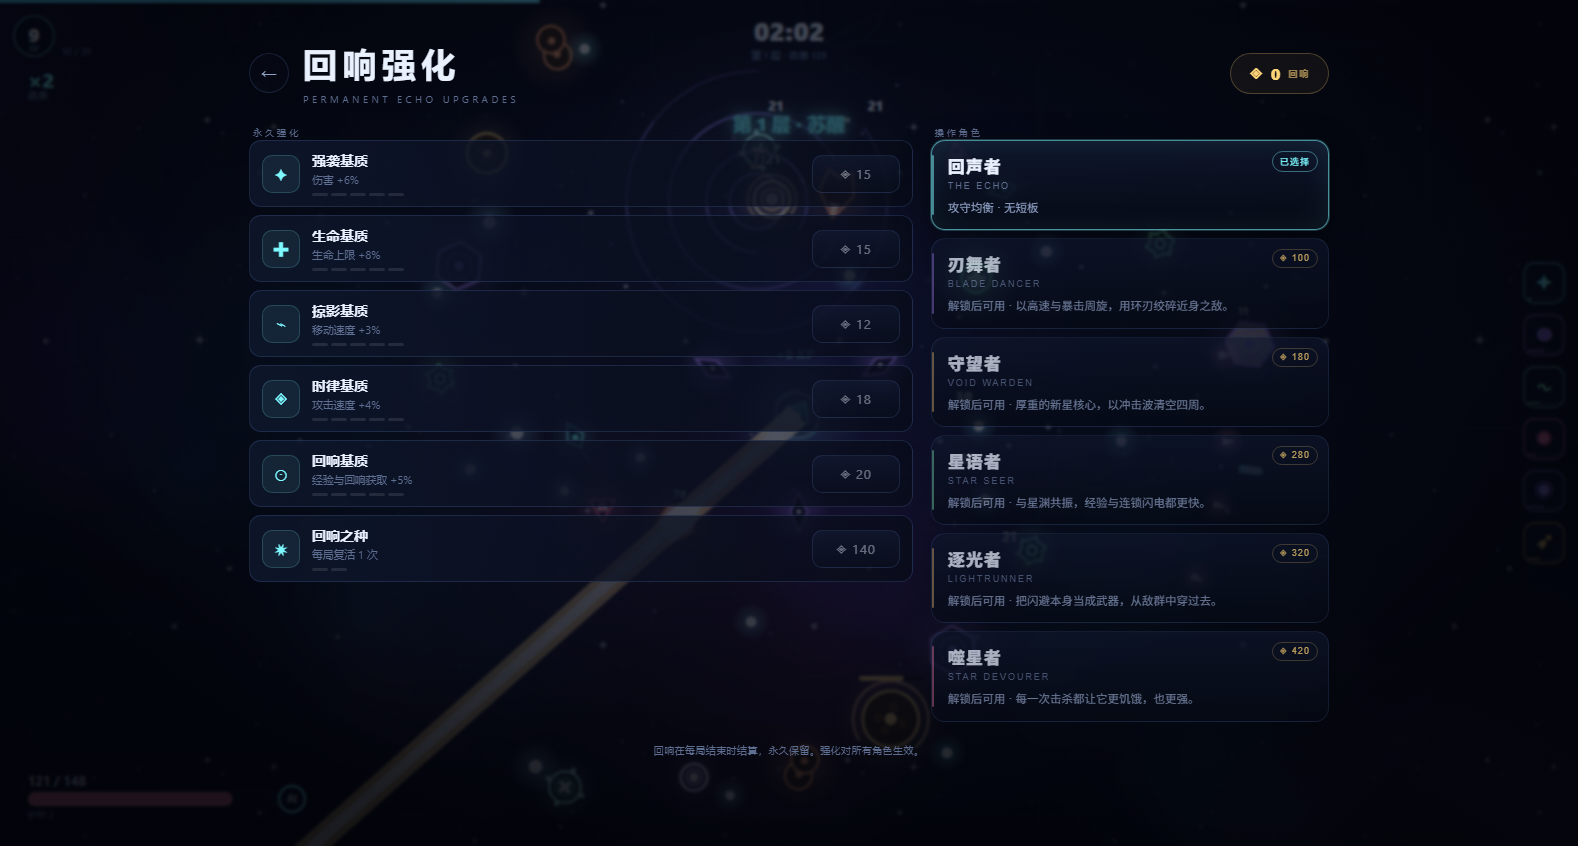
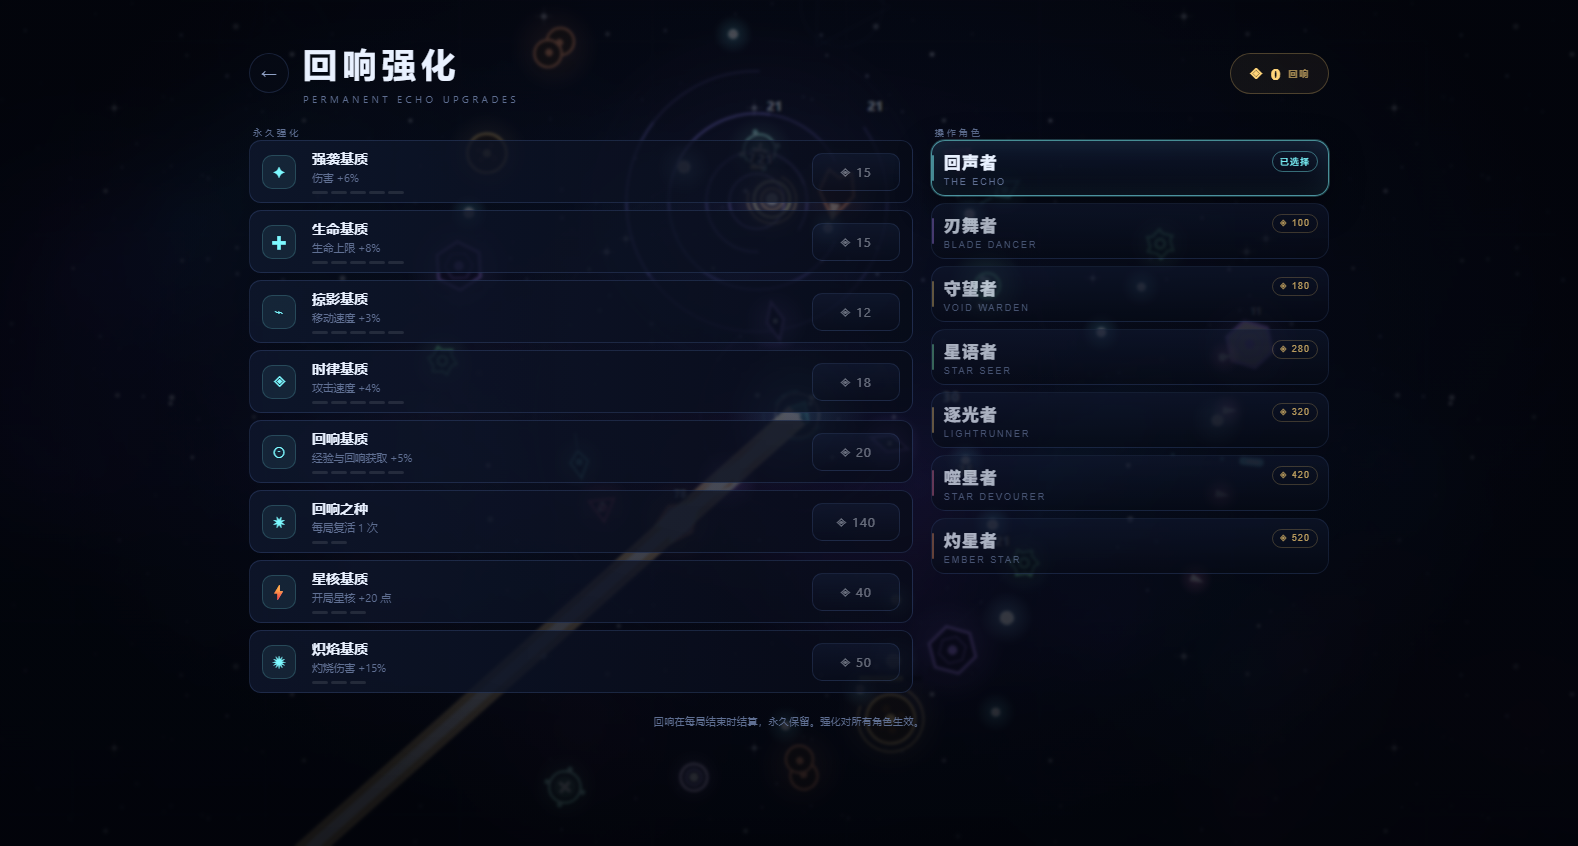
项目: 《星渊回响》v1.21.0 —— 星核/炽焰基质

diff --git a/projects/aether-echo/css/style.css b/projects/aether-echo/css/style.css
@@ -475,15 +475,15 @@ html, body {
 }
 .wallet small { font-size: 9px; letter-spacing: 0.2em; color: rgba(255, 212, 121, 0.6); font-weight: 600; }
 .meta-cols { display: grid; grid-template-columns: 1.25fr 0.75fr; gap: 18px; width: 100%; align-items: start; }
-.meta-list { display: flex; flex-direction: column; gap: 8px; }
+.meta-list { display: flex; flex-direction: column; gap: 7px; }
 .meta-row {
   display: grid; grid-template-columns: 38px 1fr auto; gap: 12px; align-items: center;
   background: linear-gradient(90deg, rgba(16, 24, 46, 0.8), rgba(8, 12, 24, 0.7));
-  border: 1px solid var(--line); border-radius: 12px; padding: 10px 12px;
+  border: 1px solid var(--line); border-radius: 12px; padding: 8px 12px;
 }
 .meta-row .m-icon {
-  width: 38px; height: 38px; border-radius: 10px; display: flex; align-items: center; justify-content: center;
-  background: rgba(125, 249, 255, 0.07); border: 1px solid rgba(125, 249, 255, 0.18); color: var(--cyan); font-size: 17px;
+  width: 34px; height: 34px; border-radius: 10px; display: flex; align-items: center; justify-content: center;
+  background: rgba(125, 249, 255, 0.07); border: 1px solid rgba(125, 249, 255, 0.18); color: var(--cyan); font-size: 16px;
 }
 .meta-row .m-name { font-size: 13.5px; font-weight: 700; letter-spacing: 0.04em; }
 .meta-row .m-desc { font-size: 10.5px; color: var(--dim2); margin-top: 3px; letter-spacing: 0.02em; }
@@ -491,8 +491,9 @@ html, body {
 .meta-pips i { width: 16px; height: 3px; border-radius: 2px; background: rgba(255, 255, 255, 0.1); }
 .meta-pips i.on { background: var(--cyan); box-shadow: 0 0 7px rgba(125, 249, 255, 0.5); }
 .meta-row .m-buy { min-width: 88px; }
-.char-list { display: flex; flex-direction: column; gap: 8px; }
-.char-list .char-card { min-height: 0; }
+.char-list { display: flex; flex-direction: column; gap: 7px; }
+.char-list .char-card { min-height: 0; padding: 8px 10px 8px 12px; }
+.char-list .char-perk { display: none; }
 .section-label {
   font-size: 9px; letter-spacing: 0.34em; color: var(--dim2);
   margin: 0 0 2px 4px;

diff --git a/projects/aether-echo/js/data.js b/projects/aether-echo/js/data.js
@@ -9,7 +9,7 @@
   const D = (g.DATA = g.DATA || {});
   AE.Data = D;
 
-  D.VERSION = '1.20.0';
+  D.VERSION = '1.21.0';
   D.TITLE = '星渊回响';
   D.SUBTITLE = 'AETHER ECHO';
 
@@ -502,7 +502,9 @@
     { id: 'swift', name: '掠影基质', icon: '⌁', max: 5, cost: function (l) { return 12 + l * 12; }, per: 0.03, stat: 'spd', desc: function (l) { return '移动速度 +' + (l * 3) + '%'; } },
     { id: 'haste', name: '时律基质', icon: '◈', max: 5, cost: function (l) { return 18 + l * 18; }, per: 0.04, stat: 'atk', desc: function (l) { return '攻击速度 +' + (l * 4) + '%'; } },
     { id: 'fortune', name: '回响基质', icon: '⊙', max: 5, cost: function (l) { return 20 + l * 20; }, per: 0.05, stat: 'xp', desc: function (l) { return '经验与回响获取 +' + (l * 5) + '%'; } },
-    { id: 'revive', name: '回响之种', icon: '✷', max: 2, cost: function (l) { return 140 + l * 160; }, per: 1, stat: 'revive', desc: function (l) { return '每局复活 ' + l + ' 次'; } }
+    { id: 'revive', name: '回响之种', icon: '✷', max: 2, cost: function (l) { return 140 + l * 160; }, per: 1, stat: 'revive', desc: function (l) { return '每局复活 ' + l + ' 次'; } },
+    { id: 'core', name: '星核基质', icon: '⚡', max: 3, cost: function (l) { return 40 + l * 30; }, per: 20, stat: 'ult', desc: function (l) { return '开局星核 +' + (l * 20) + ' 点'; } },
+    { id: 'ignis', name: '炽焰基质', icon: '✹', max: 3, cost: function (l) { return 50 + l * 40; }, per: 0.15, stat: 'burn', desc: function (l) { return '灼烧伤害 +' + (l * 15) + '%'; } }
   ];
 
   /* 首次进入游戏的操作提示 */

diff --git a/projects/aether-echo/js/player.js b/projects/aether-echo/js/player.js
@@ -31,7 +31,7 @@
         dashDamage: !!char.dashDamage,
         killStack: !!char.killStack,
         burn: !!char.burn,
-        ultGain: 0, igniteChance: 0, burnMul: 1,
+        ultGain: 0, igniteChance: 0, burnMul: 1 + (meta.ignis || 0) * 0.15,
         killStacks: 0, stackBonus: 0,
         revives: lv('revive'),
         level: 1, xp: 0, xpNeed: D.xpNeed(1),
@@ -39,7 +39,7 @@
         relics: [],
         aimX: 0, aimY: 0, aimAngle: -Math.PI / 2,
         dashT: 0, dashCd: 0, dashDir: { x: 1, y: 0 },
-        ult: 0, ultMax: 100, ultPulse: 0,
+        ult: Math.min(100, (meta.core || 0) * 20), ultMax: 100, ultPulse: 0,
         invuln: 0, flash: 0, hurtT: 0,
         moving: false, alive: true, t: 0,
         levelHpBonus: 0, damageDealt: 0, healed: 0,

diff --git a/projects/aether-echo/README.md b/projects/aether-echo/README.md
@@ -51,7 +51,7 @@ python -m http.server 8080
 - **星象事件**：每局随机触发陨星雨 / 虚空潮汐 / 星核涌动 / 精英狩猎，同一套构筑在不同局里节奏完全不同。
 - **遗物**：每次击破首领额外三选一遗物，20 件遗物能彻底改变同一套武器的玩法。
 - **七名角色**：逐光者把闪避本身变成穿身伤害，噬星者靠击杀永久叠伤，灼星者让所有命中附带持续燃烧并引燃周围。
-- **局外成长**：每局结束按表现结算「回响」，用于购买永久强化、解锁新角色。
+- **局外成长**：每局结束按表现结算「回响」，用于购买 8 种永久强化（含开局星核、灼烧强化）、解锁新角色。
 - **深渊契约**：开局可自选 1~4 条难度词条（兽潮 / 狂怒 / 疾行 / 精锐），每条敌人更强、结算回响 +20%，单独记录契约最佳。
 - **图鉴 / 档案**：全部武器、被动、敌人、首领、遗物、星象事件可查；26 项成就、生涯统计与本地最佳记录。
 - **每日挑战**：每天一个固定种子，叠加 2 条随机扰动（敌人移速 / 伤害 / 经验 / 护甲等），单独记录今日最佳。
@@ -183,7 +183,7 @@ aether-echo/
 这个项目在没有手动点击的情况下做了两轮自动化验证：
 
 1. **Node 无头模拟器**（`tools/sim.cjs`）：在 Node 中加载真实游戏代码 + Canvas/DOM 桩，跑完整 10 分钟对局，机器人自动走位与选卡，输出等级 / 击杀 / BOSS / DPS 时间线，用于数值平衡。
-2. **Chrome CDP 自动化**（`tools/selftest.html` + `tools/cdp-selftest.cjs`）：真实浏览器中执行 84 项 UI 冒烟测试（菜单、开始、升级选卡、暂停、恢复、结算、强化购买、角色解锁、逐光者闪避伤害、噬星者击杀叠伤、星核爆发与能量积攒、深渊之眼运转、遗物数量与处决 / 雷霆效果、深渊契约开关与倍率、设置、高对比 / 低动态、图鉴、档案、成就、每日挑战种子与每日记录、首领登场、首领连战、遗物三选一），并抓取控制台异常；同时用 CDP 截图做视觉回归，覆盖 1600×1000 桌面、1280×720 短屏与手机竖屏。
+2. **Chrome CDP 自动化**（`tools/selftest.html` + `tools/cdp-selftest.cjs`）：真实浏览器中执行 86 项 UI 冒烟测试（菜单、开始、升级选卡、暂停、恢复、结算、强化购买、角色解锁、逐光者闪避伤害、噬星者击杀叠伤、星核爆发与能量积攒、深渊之眼运转、遗物数量与处决 / 雷霆效果、深渊契约开关与倍率、设置、高对比 / 低动态、图鉴、档案、成就、每日挑战种子与每日记录、首领登场、首领连战、遗物三选一），并抓取控制台异常；同时用 CDP 截图做视觉回归，覆盖 1600×1000 桌面、1280×720 短屏与手机竖屏。
 
 运行方式（本机 Electron 内置 Node）：
 
@@ -194,7 +194,7 @@ aether-echo/
 # 数值模拟：标签 局数 最长秒数 起始种子 [god]
 <electron> tools/sim.cjs demo 4 700 1
 
-# UI 冒烟测试（真实 Chrome，84 项断言，结果写入 tools/selftest-result.txt）
+# UI 冒烟测试（真实 Chrome，86 项断言，结果写入 tools/selftest-result.txt）
 <electron> tools/cdp-selftest.cjs file:///.../tools/selftest.html tools/selftest-result.txt
 
 # 截图（需要 Chrome）
@@ -259,6 +259,7 @@ aether-echo/
 
 ## 版本记录
 
+- **1.21.0** — 永久强化扩到 8 种：星核基质（开局星核 +20/级）与炽焰基质（灼烧伤害 +15%/级），让回响能直接强化主动技与燃烧流；强化页压缩到一屏内显示 8 项强化 + 7 名角色；UI 冒烟测试扩到 86 项。
 - **1.20.0** — 星象事件闭环：事件结束回复 8% 生命并 +5 回响，图鉴新增星象事件页；手机端修复星核爆发按钮在战斗中不可见的问题（截图工具补按钮、按钮挪到「闪」左侧并提高对比度）；UI 冒烟测试扩到 84 项。
 - **1.19.0** — 新系统成就补齐：凝视深渊（击破深渊之眼）、星象观测者（单局 5 次事件）、燎原（单局灼烧击杀 300）、超新星（单局 20 次星核爆发）；成就总数扩到 26 项，UI 冒烟测试扩到 83 项。
 - **1.18.0** — 首领连战从五连战升级为「六连战」：深渊之眼加入最终席位，按织巢者 → 裂界兽 → 千目 → 星蚀 → 终焉回响 → 深渊之眼顺序连打；连战结算与最佳记录同步更新，UI 冒烟测试扩到 82 项。
@@ -297,4 +298,4 @@ aether-echo/
 
 ---
 
-*版本 1.20.0 · 无外部素材 · 无第三方依赖*
+*版本 1.21.0 · 无外部素材 · 无第三方依赖*
